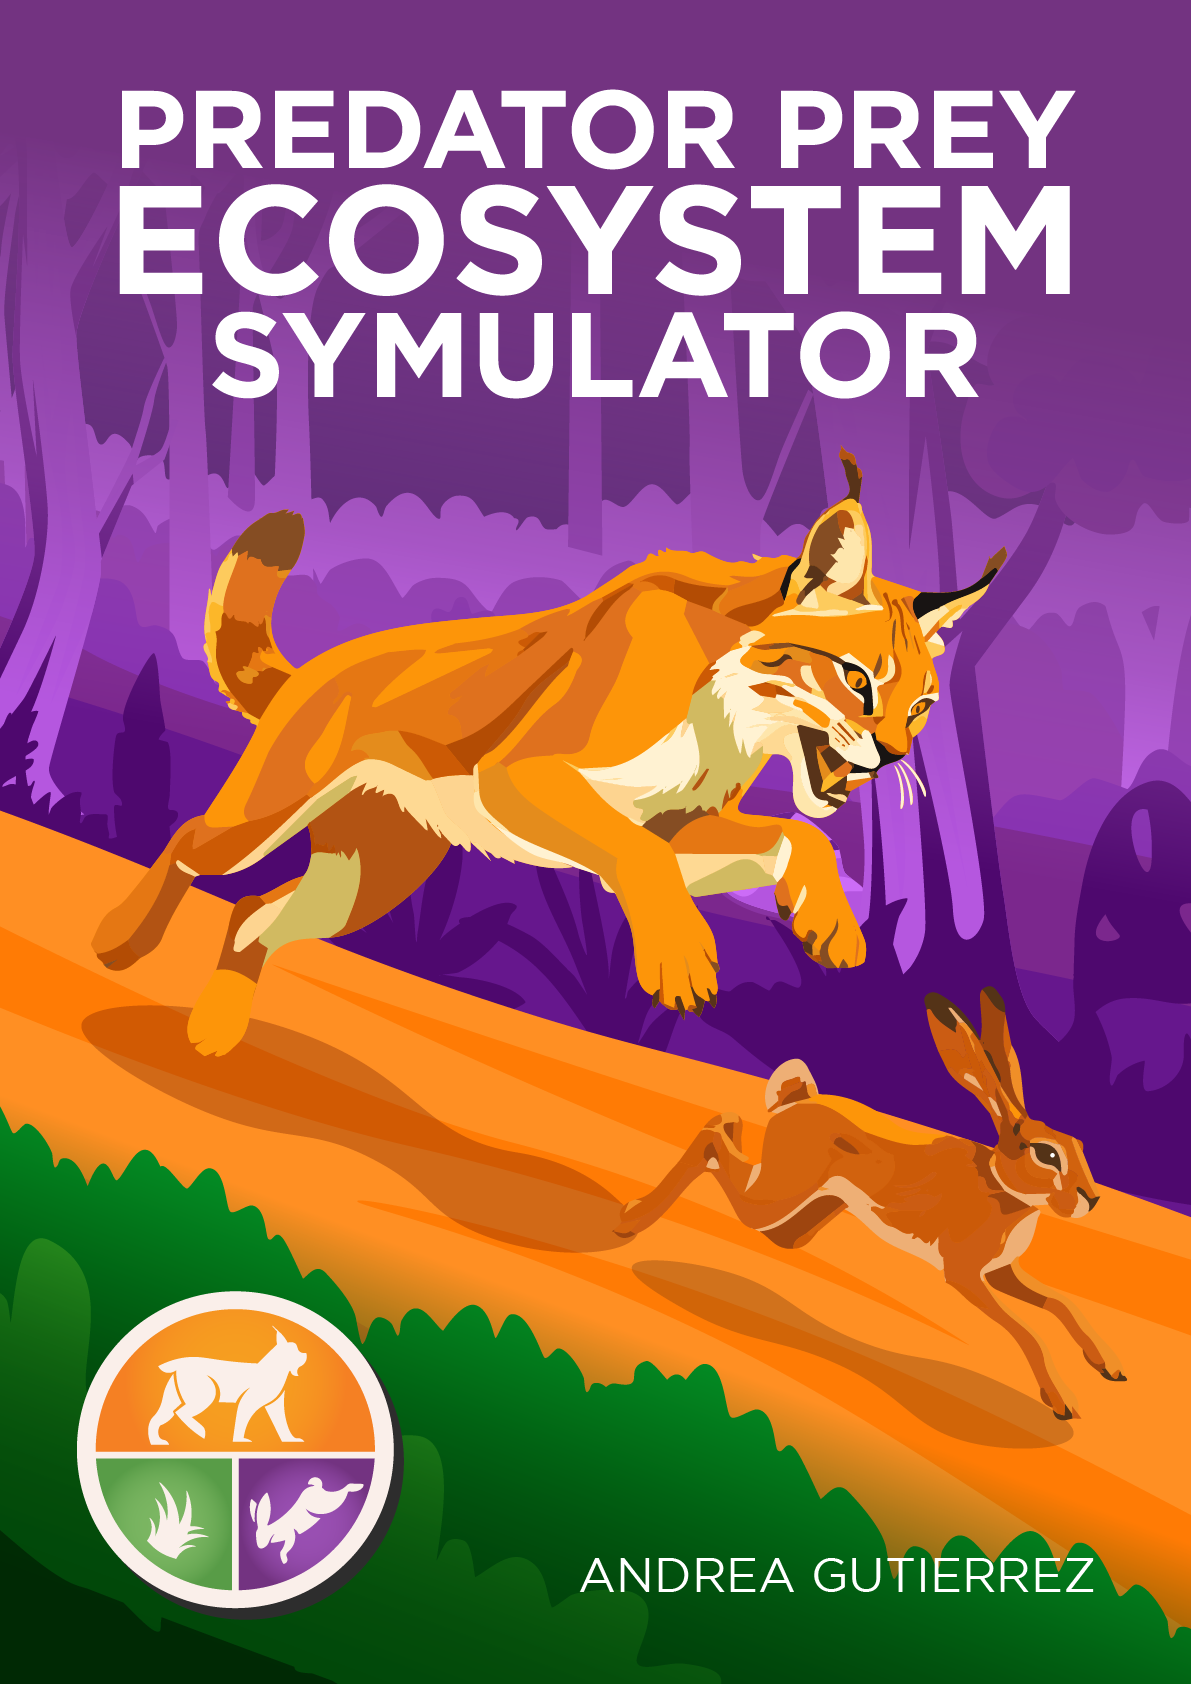
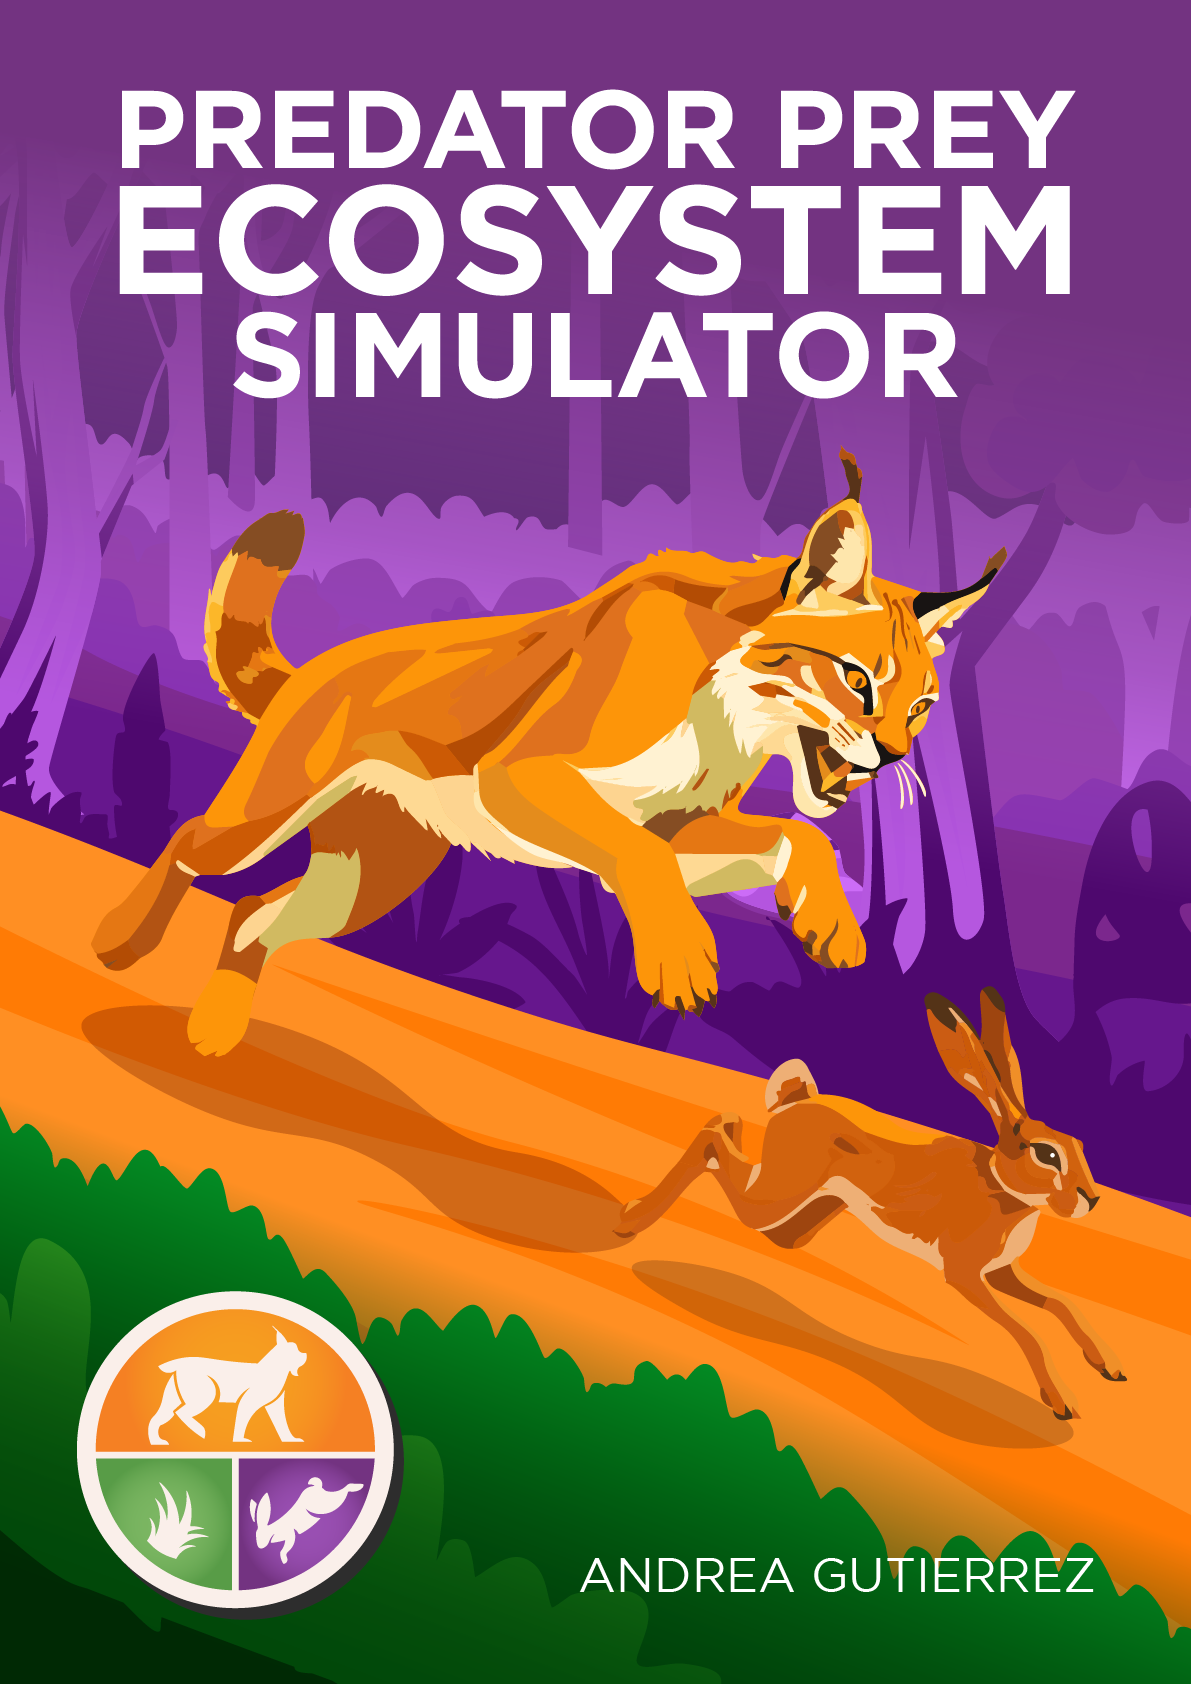
fix: correct spelling in README and update .gitignore to exclude large GIF

Changed region(s): [[0.1864, 0.1853, 0.8388, 0.247]]

diff --git a/README.md b/README.md
@@ -1,4 +1,4 @@
-# Predator Prey Ecosystem Symulator 🐇🦊🌿
+# Predator Prey Ecosystem Simulator 🐇🦊🌿
 
 [![PROJECT](https://img.shields.io/badge/-PROJECT-0d1117.svg?logo=googlekeep&style=popout&logoColor=white)](#)
 [![HTML](https://img.shields.io/badge/HTML-%23E34F26.svg?logo=html5&logoColor=white&style=popout&)](#)
